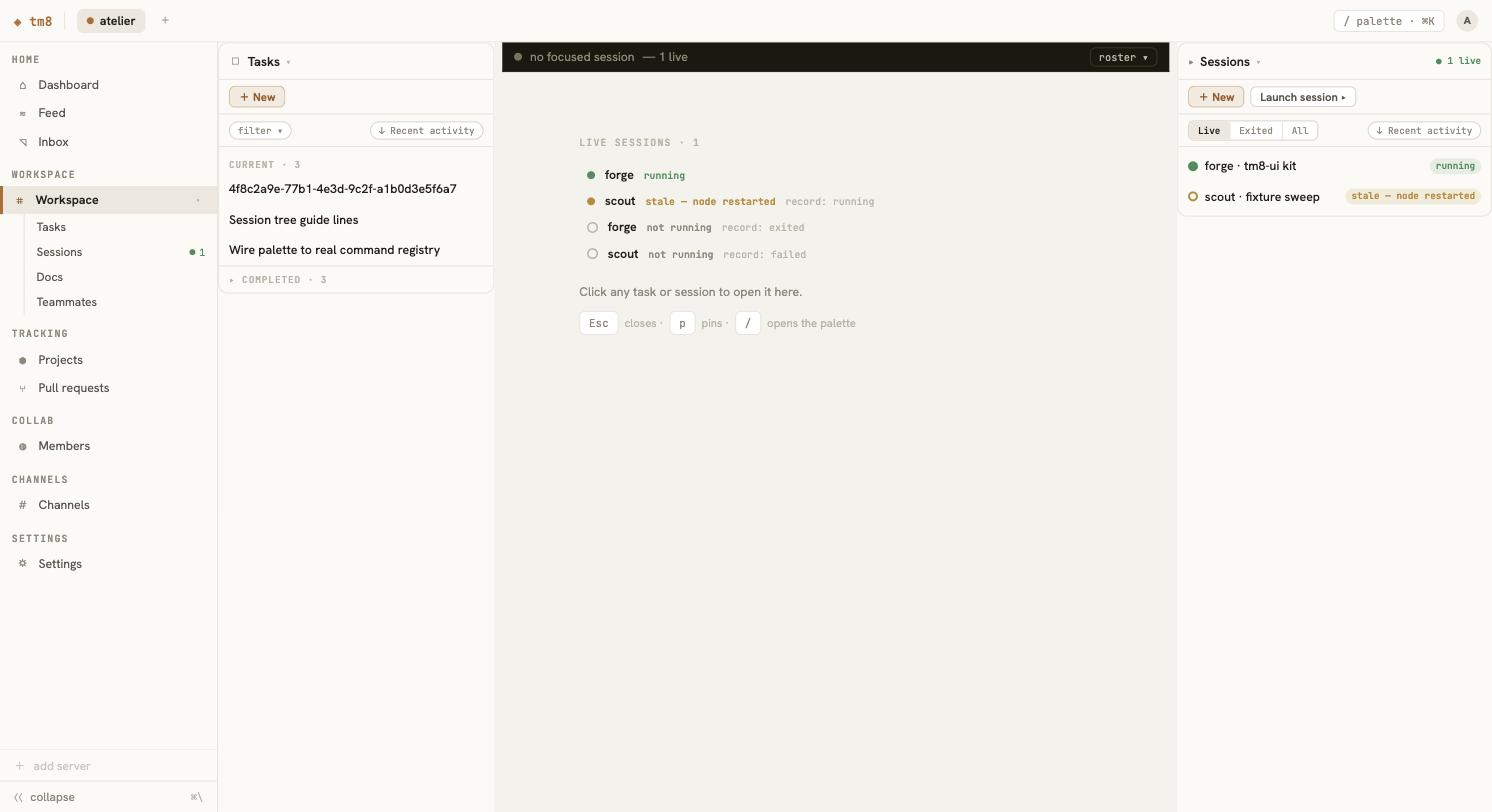
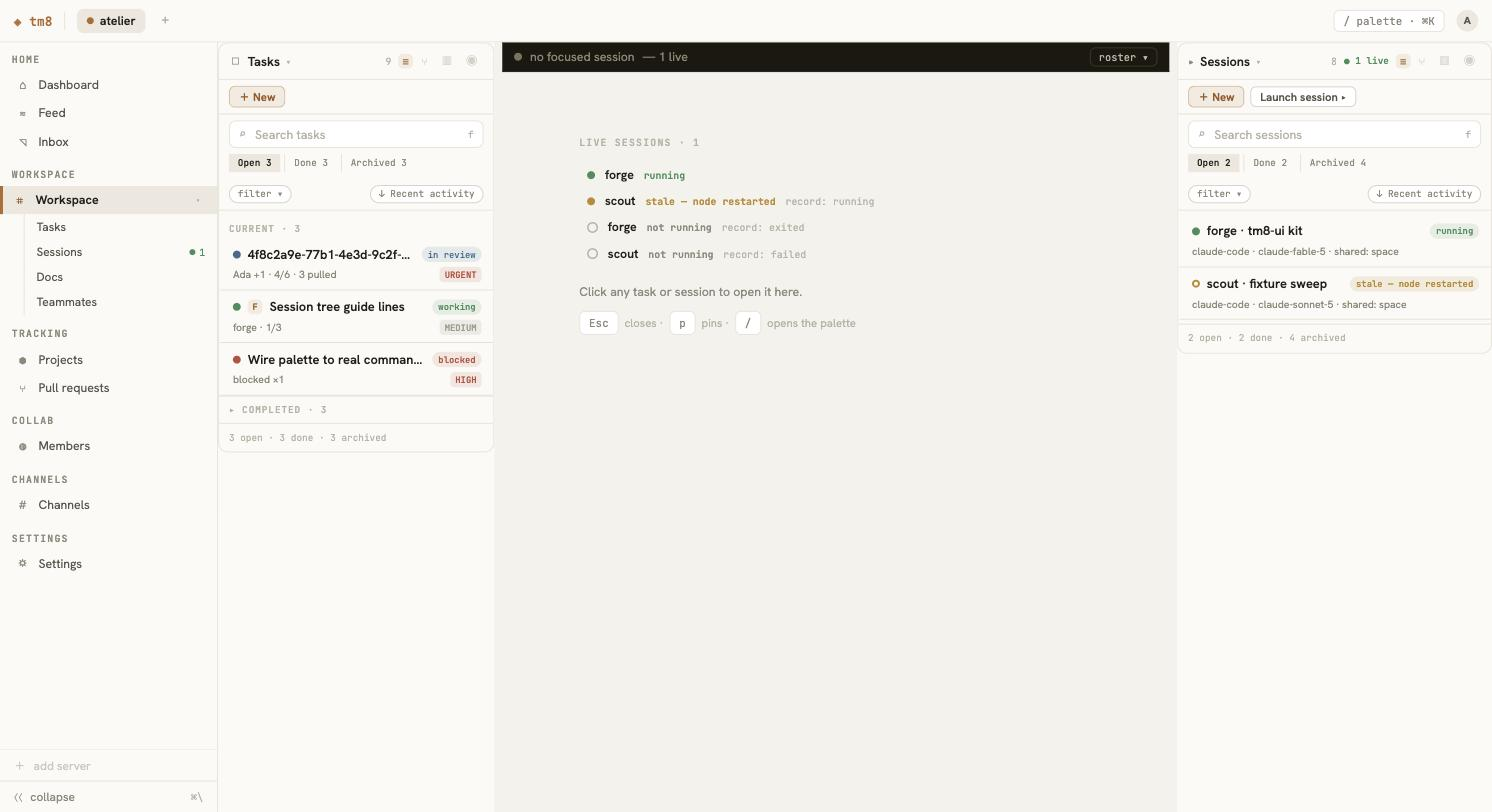
docs(tm8-ui): R5 iteration closure — findings #1-#7 composed capture, ledger D36-D44, report §9
The final pair (HEAD db18c95, both themes, single-load, differ-hash
controlled) is the first artifact showing all seven user findings fixed
and composed. Ledger sweep: D36-D44 incl. the gate's first user-ratified
entry (D43), the D24/D38 corrections, and the user's Run-workflow scope
directive (D44). Report carries the full iteration record and the
three-layer verification lesson. Capture sha256:
light 5fe82b35664a1c48b7e996deb3a683725d8199370e13b2894507ae836625d557
dark  aeff07ffa0330f9f858bbddf254267c0d3569f77c707a572a50f95e6a913fe7c

Claude-Session: https://claude.ai/code/session_01Td4zvPCPtt7YCC1JrwGtLH

diff --git a/packages/tm8-ui/DECISIONS.md b/packages/tm8-ui/DECISIONS.md
@@ -361,3 +361,153 @@ Rationale, and the reason this is a ledger entry rather than a bug fix: the row 
 Same floor-inversion class as D34 (unbounded content in a fixed slot destroying the slot), different root: a misread data shape rather than a long word.
 
 **Corollary, from the same pass:** popovers dismiss on Escape (consumed per C6 layer 2, so dismissing a picker never also pops the panel stack) and on outside pointer-down. The real-browser pass caught this in the new filter picker AND in the kind selector written hours earlier; both were fixed through one shared `useDismissable` rather than patching the instance under review. Jsdom could not have found it — nothing in a unit test notices that a popover has no way out.
+
+## D36 — In-panel list search is `f`; `/` stays the palette's guaranteed path everywhere (2026-07-28)
+
+Source: A1a nav/registry seat, ruling requested by fe-coordinator during R5 gate iteration (user finding #2 — in-panel list search, T0-3 anatomy). The coordinator's stated read was that layer 5 should consume `/` for search-focus ahead of layer 6's palette binding; that read is **not** adopted, for the reason below.
+
+Conflict: WLT §5.8 publishes plain `/` as the palette's path **"everywhere"** and names it the GUARANTEED one. T0-3 draws slash-focus on the panel's search field. Both cannot hold.
+
+Ruling: **`/` is untouched — it opens the palette at layer 6 from every focus state, including a focused list. In-panel search binds to plain `f` at layer 5.**
+
+Why the obvious reading fails, and this is the load-bearing part: `/` is guaranteed *because* `⌘K` is browser-owned on Chrome Windows/Linux and on Firefox everywhere (WLT §5.8's own collision matrix). A focused list is the workspace's most common focus state. Consuming `/` there would leave the palette with **no reachable binding at all on half the supported matrix, in the state users occupy most of the time** — and `Esc` does not rescue it, because at layer 5 `Esc` pops the panel stack rather than blurring to chrome. The guarantee would survive in the published text and die in practice, which is the failure mode C6 exists to prevent: the map is a contract, not a per-context lottery.
+
+`f` (find) is free, browser-proof, mnemonic, and gives search a guaranteed path of its own rather than borrowing the palette's. Consequences, all asserted by tests:
+- Layer 3 untouched — a focused terminal still owns `f`, and nothing about the terminal contract changes.
+- Layer 4 governs the field once focused: every plain key is dead (so typing `f` types an `f`), `Mod` chords stay live where receivable, and `Esc` blurs the FIELD rather than popping the stack.
+- **`Mod+F` is deliberately NOT bound.** It is absent from WLT's hard-exclusion list, but every browser opens its own find bar on it, and the contract never advertises a chord the browser owns (R8-3).
+
+Canvas disposition: T0-3's slash-focus pixel is **superseded**, the same shape as D1 retiring the tab-bar toggle the T0-1 canvas still draws — a published keyboard guarantee outranks a canvas affordance, and the authority chain (rulings → DECISIONS → WLT → SPEC-FINAL → canvases) says so directly. The canvas is right that the field needs a keyboard path; it is wrong about which key was available to spend.
+
+Rationale: the binding philosophy (R8-3) makes the browser-proof plain-key core the thing everything else is arranged around. Spending the one guaranteed global key on a per-panel affordance inverts that, and the cost lands invisibly — on keyboard-only users, on exactly the platforms where the fallback is already gone.
+
+## D37 — Correction to D36: the slash hint is drawn by T0-1, not T0-3 — and the hint chip must render `f` (2026-07-28)
+
+Source: A1a nav/registry seat, self-correction. Prompted by fe-coordinator's #2/#3 dispute resolution ("the authority was T0-1's in-situ panels; T0-3 draws neither"), then MEASURED against the canvas files rather than accepted as a second relay.
+
+**What D36 got wrong.** D36's canvas-disposition paragraph asserts that "T0-3 draws slash-focus on the panel's search field" and declares that pixel superseded. **T0-3 contains the string "search" zero times.** It draws no search field, so there was nothing there to supersede. I took that claim from the ruling request and repeated it as fact in a ledger entry without opening the canvas — a relayed claim published as a measurement, which is the failure this program has spent the day naming in other people's work.
+
+**What is actually true, and it does not weaken D36.** `T0-1 Workspace Hi-Fi` — THE GATE TARGET — draws the search field in BOTH side panels, with a per-kind placeholder (`Search teammates`, `Search projects`) and a mono key-hint chip. The chip's literal content is:
+
+```
+⌕ {{L.search}}<span style="flex:1"></span><span style="font-family:'JetBrains Mono';font-size:10px">/</span>
+```
+
+So the slash-focus affordance is real and IS drawn — in T0-1, not T0-3. D36's ruling (`f` for in-panel search, `/` reserved to the palette) and its supersession stand unchanged on their own argument, which never depended on which canvas drew the chip. Only the citation was wrong.
+
+**The consequence D36 missed, which is why this is a correction and not a footnote.** Because the chip lives in T0-1, it is ON THE GATE SCREEN. A reviewer opening the master screen will see a `/` hint next to a field that answers to `f`. Ruling: **the hint chip renders `f`.** A key hint is not decoration — it is the contract's own advertisement of itself, and a chip that names a key the app does not bind is a lie in the one place a user goes to learn the key. This is the same discipline as R8-3's "never advertise a chord the browser owns", applied to our own binding: never advertise a key we did not bind.
+
+Note for the R5 reviewer: the `/` in the canvas is not a defect in the design — it is the same key-budget collision D36 resolved, drawn before the collision was noticed. The canvas is right that the field deserves a hint; `f` is what the hint says.
+
+Method note, recorded because the correction was nearly missed twice: my first two attempts to verify this used `placeholder=` and `<input` as probes and returned zero for EVERY canvas including the one that demonstrably has search fields — the canvases are inline-styled divs with no form elements at all. A clean zero from a detector that cannot fire is not evidence, and I only caught it by checking that the probe fired on a known-positive first. The probe that works is the literal glyph-and-token shape (`⌕ {{…}}`).
+
+## D38 — Canvas hierarchy: T0-1's in-situ anatomy EXTENDS the component canvases; walks check the composed one (2026-07-28)
+
+Source: A1c, from an anatomy walk that produced a confidently wrong answer at the R5 gate. Corrected by fe-coordinator, who verified T0-1 independently; A1a's D37 corrects the same miss from the keyboard side.
+
+Ruling: when auditing a surface for missing elements, the COMPOSED canvas (T0-1, the gate screen) is authoritative over the dedicated component canvas (T0-3, T0-4) for what that surface carries IN SITU. T0-1's panel headers draw elements T0-3's dedicated panel frames do not, and T0-1 wins. An anatomy walk that measures only the component canvas is measuring the wrong artifact.
+
+Rationale, and the incident: asked to sweep the list-panel header for missing elements, I walked T0-3 element by element, measured all five of its frames, and reported — accurately — that T0-3 contains zero search glyphs, zero occurrences of the word "Search", and no view switcher in any frame. I concluded the features were unspecified and asked for a ruling before building. T0-1 draws BOTH: each panel header carries a bordered `⌕ {search}` input row with a mono hint chip, and its support code builds `views = [['≡','List'],['⑂','Tree'],['▥','Board'],['◉','Graph']]` with active-colour logic. The measurement was correct; the artifact was wrong. Two corroborating arguments I offered (ListConfig has no search field; the palette is the search surface per §4.2) were consistent with my wrong answer and did nothing to catch it — agreement among sources that share an assumption is not corroboration.
+
+Consequences adopted:
+1. **Anatomy walks name their artifact and check the composed canvas.** "T0-3 draws no search" and "the design specifies no search" are different claims; only the first was measured.
+2. **A drawn pixel loses to a later ruling, and the ledger says which.** T0-1's hint chip draws `/`; D36 binds `f`; the chip ships `f`. A chip naming an unbound key is a lie in the one place users look to learn keys.
+3. **The four switcher positions come from T0-1, not from the registry's six modes.** `feed` and `gallery` are CollectionView layouts (A2); the composed workspace canvas does not offer them in a side panel. `hiddenModes` may show fewer, never more.
+
+## D39 — The verdict outranks the record at EVERY consumer, and dead registry data is a defect class (2026-07-28)
+
+Source: A1c, from R5 gate findings #1 and #4 — both reported as separate defects, both one mechanism.
+
+Ruling, two parts:
+
+1. **Wherever a `liveTreatment` exists for a kind, it owns the status presentation** — the header pill, the tile word, and the chrome strip alike. A kind's own `statusPill`/`tile.badges` status source fills that slot only where no verdict is available. The record's claim is never discarded (the registry's authored label states and withdraws it in one breath) but it never wears the live treatment alone. Rendering record-`running` in live green above a session the node reports stale is the D6/R-UI-5 violation, and it shipped to the user's screen because this rule existed in the tile and nowhere else.
+
+2. **Registry data with no consumer is a defect, not a latent feature.** `ListConfig.tile.badges` — 35 sources across 16 rows — had no reader at all; the renderer consumed only `tile.pulse`. Every kind rendered a bare title, and `work_session` looked correct solely because it owns `liveTreatment`, a different field on a different path, which disguised a universal break as one kind's bug. The guard is a CONSUMER-COVERAGE test deriving the source set from the registry (not from the type union) and asserting the renderer handles each: the next added source fails loudly rather than rendering nothing.
+
+Rationale: the finding-class sentence is **a consumer that has the authoritative fact available and renders a lesser one**. All four gate findings were instances — the tile ignored its badges, the header ignored the verdict, the action bar was never handed the verdict or the capabilities the same panel was holding three lines above. Note the shape of the near-miss on the guard: a registry-side test asserting `tile.badges` is POPULATED passed throughout, over data nobody read. A test on one side of a seam cannot prove the two sides MEET; only a test that crosses it can.
+
+## D40 — Correction to D24: the whole work_session panel is an always-dark shell, not just the strip and host (2026-07-28)
+
+Source: A1c, from R5 gate finding #5 — the user's words were "TERMINAL SHOULD FULLY COVER". Measured against T0-1's in-situ (Z3) session markup and ordered by fe-coordinator as an append-only correction rather than an edit to D24.
+
+Ruling: the `work_session` panel renders in the always-dark scope IN ITS ENTIRETY — breadcrumb, header, action bar, tab strip, Content body sections, reserved seam, banner, canvas, the exited/stale fallbacks, and the footer. Not the strip and host alone. D24's mechanism is unchanged and untouched: a nested `.cv2-root[data-theme="dark"]` scope re-declaring the real dark tokens through tokens.css's own selector, zero duplicated hex, cannot-drift-by-construction. **Only the scope BOUNDARY moves.** Keyed on `panel.archetype === 'terminal'` — a registry field, never a kind literal.
+
+Measured values from T0-1's Z3 session panel, which is what settles it: every hairline `#2C2719` (dark line); title `#EFE9DB` (dark ink); provider and controls `#8C8470` hovering to `#302A1D`; close-hover `#DA7D6A`; section eyebrows `#665E4C`; project chip `#BDB5A2` on `#1B1810` with border `#3B3524`; terminal `#131009`; **and the EXITED fallback on `#1B1810` — dark, not paper.**
+
+Also corrected here: the reserved seam is **24px**, not the 34px built from T0-4 anatomy prose.
+
+Rationale, and the provenance, which is the part worth keeping: D24 ruled that panel chrome follows the theme and only the strip and host stay dark, and its stated evidence was T0-2's `#exited` frame drawing a LIGHT exited session panel. That frame is a standalone COMPONENT frame. The COMPOSED canvas draws the same state dark. **Generalising from the component canvas to the composed one is precisely the error D38 names — and I made it before writing D38 and did not catch it while writing D38.** A ruling I authored was the provenance of a gate defect, and the ledger is where that has to be visible; the code fix and the ledger fix land together.
+
+The symptom inverted the cause, which is why it took a measurement rather than a look: the xterm read as an *inset block with paper gutters*, so the natural reading was "the canvas region needs to be full-bleed". The canvas region was already full-bleed and measured clean (direct flex child, `flex: 1`, no margin, `min-height: 160`, scrolls internally). What was wrong was its NEIGHBOURS — the sections above and the fallback below wearing paper. **A region can look inset because it is inset, or because everything around it is the wrong colour; only measuring both tells you which.**
+
+Verified in the browser at 1492×812 in BOTH themes. Dark theme cannot prove this law — everything is dark there. The LIGHT theme is the test that matters, and it passes: the session panel renders fully dark against a paper workspace, reading as designed rather than as a rendering fault. Evidence: `gate-evidence/T0-1-session-dark-shell-light-theme.jpg`, sha256 739974ee773a3ff42079f468a7f8c33667757030e62ce00509bce29971da61a6.
+
+## D42 — Refinement of D38: the composed canvas governs COMPOSITION, the dedicated canvas governs GRAMMAR (2026-07-28)
+
+Source: A1c, after over-applying my own D38. The correcting argument is A1a's, from its D17 precedent.
+
+Ruling: D38 established that T0-1's in-situ anatomy EXTENDS the component canvases and that anatomy walks must check the composed one. That holds for **which elements exist** — it is how the search field and the view switcher were settled. It does **not** license "T0-1 overrides the component canvas on every question". The boundary, following D17's menu precedent (T1-1 governs menu ROW GRAMMAR, T0-1 governs rail COMPOSITION):
+
+- **Composition** — which elements a surface carries in situ: the COMPOSED canvas (T0-1) governs.
+- **Grammar** — the internal mechanics, labelling and persistence of an element: the DEDICATED canvas governs (T0-3 for the list panel, T0-4 for the detail panel).
+
+Rationale, and the incident that produced it: I reported the task section labels as a "divergence" because T0-1 draws `NEEDS ATTENTION` / `IN PROGRESS` while the registry declares `CURRENT` / `COMPLETED`, and implied a rename. A1a measured both canvases and refuted it on three grounds. (1) It is not a divergence — T0-3 draws CURRENT/COMPLETED and T0-1 draws the other pair; the registry matches its governing canvas exactly. (2) They are not the same mechanism: T0-1's are `isGrp` group rows guarded by `sort === 'Default' && !anyF`, so they EVAPORATE on any sort or filter, while `sections` persist and carry `collapsedByDefault`. (3) `NEEDS ATTENTION` is the R8-dormant attention concept already carried as `needsAttentionGroup` — a predicate, not a section.
+
+The cost had it been complied with rather than challenged: the rename would have silently deleted the completed/collapsed behaviour that WLT §3 lists as a survival item, and conflated a dormant designed-but-undetected feature with a live lifecycle split. I proposed it about another seat's data, from one canvas, while spending the same day arguing that conflating two axes is the defect class.
+
+**A ruling generalised past its evidence is a defect with a citation.** D38 was correct and I applied it to a question it never addressed; the citation made the over-application look grounded. This entry is the boundary D38 should have carried.
+
+## D43 — Lifecycle tiers are universal; tabs, footer and total read ONE per-tier query (2026-07-28)
+
+Source: **USER at R5 review, via master.** THE GATE'S FIRST USER-RATIFIED ENTRY. Registry field by A1a; consumers by A1c.
+
+Authority note, verbatim as ordered: **the user ratified the canvas ADDITION over WLT silence; WLT gains the tier by ratification, not by drift.**
+
+Ruling: every collection kind carries the three lifecycle tiers Open / Done / Archived, in fixed order, as T0-1 draws them — plus the footer count line (`9 open · 601 done · 33 archived`) and the kind-selector total. Tabs are a lifecycle TIER; `sections` are triage grouping WITHIN the current tier; the filter chips narrow within it further. All three coexist — T0-1 draws tabs and group headers together, and neither supersedes the other.
+
+Two consequences worth recording because they were nearly got wrong:
+
+1. **COUNTS ARE NOT A REGISTRY FIELD.** Each tier's count is its own query's result total, and the tab label, the footer line and the selector total all read that one source. A count field would be a second source that could disagree with the query it claims to summarise — the three surfaces would then be consistent with each other and wrong together. (A1a's design, against my requirement as stated; they were right to refuse the shape I asked for.)
+
+2. **`unsupported` IS THE HONEST-EMPTY ANSWER.** `archived` is a real query for every kind (`deleted: 'only'` is a genuine `CollectionQuery` member); `open`/`done` are only expressible where the contract knows a state axis. Every other kind's `done` tier carries an `unsupported` reason, renders with an honestly-zero count, and is dimmed but PRESENT — never hidden. Hidden and empty are different states (L6), and a tab that vanished per-kind would teach nothing about why. This means T0-1's drawn `Docs [Open 4, Done 58, Archived 4]` cannot be honoured: those are mock numbers and the contract has no doc-completion concept. Saying so is the ruling, not a shortfall.
+
+Implementation note that cost a real bug: tabs and filter chips had been coded as either/or, which was invisible while `work_session` was the only kind with tabs. Making tiers universal deleted the filter trigger from every kind at once. The tests caught it. **A conditional that is only ever exercised on one branch is untested in the other, and the day it flips it takes a working feature with it.**
+
+## D41 — Task sections are NOT renamed: T0-1's default grouping is a different mechanism (2026-07-28)
+
+*Appended OUT OF NUMERIC SEQUENCE, after D43, and the reason is itself the point.* I cited D41 in four committed test names, in `registry.ts` comments and in commit `db18c95` before the entry existed — the number was claimed in code and never written, so the citations dangled against a record that was not there. Siblings appended D42 and D43 around the gap. Rather than renumber committed code I am writing the entry at its claimed number and recording why it sits out of order: a reference in durable code is a claim on the ledger, and claiming one without writing it is the documentation form of the commit-dangle I caused an hour earlier with a doorbell.
+
+Source: A1a nav/registry seat. Raised as a canvas-conformance correction by A1c, relayed as an instruction by fe-coordinator, COUNTERED by me on measurement, and the counter accepted as the ruling by fe ([fe->a1a 34]).
+
+**The claim:** T0-1's composed task panel draws sections `NEEDS ATTENTION` / `IN PROGRESS` where the registry declares `CURRENT` / `COMPLETED`; therefore rename the registry's sections.
+
+**Measured, from the canvas files rather than the relay:** both label sets are drawn, in DIFFERENT canvases. `T0-3 Entity List Panel` contains `CURRENT` ×2 and `COMPLETED` ×1 and neither of the others; `T0-1 Workspace Hi-Fi` contains `NEEDS ATTENTION` ×1 and `IN PROGRESS` ×1 and neither of the others. So the registry never diverged from its governing canvas — it matches T0-3, the dedicated EntityListPanel canvas.
+
+**Ruling: no rename. `CURRENT` / `COMPLETED` stands**, because the two are not the same mechanism. Verbatim from T0-1's source:
+
+```js
+const buildTasks = (sort, f) => {
+  const anyF = Object.keys(f).length > 0;
+  if (sort === 'Default' && !anyF) return [
+    { isGrp: true, name: 'NEEDS ATTENTION · 2', gc: C.wait },
+```
+
+Three facts follow. (1) These are `isGrp` GROUP ROWS carrying a group colour; T0-3's are section EYEBROWS (mono 9.5px/600/.1em ink-3). (2) They exist only under `sort === 'Default' && !anyF` — a default-sort grouping that EVAPORATES on any sort or filter, where `sections` persist across both. (3) `NEEDS ATTENTION` is the R8-dormant concept the registry already carries as `needsAttentionGroup`.
+
+**What the rename would have cost, which is why it was dangerous rather than cosmetic:** it would have silently deleted `collapsedByDefault` on COMPLETED — a WLT §3 survival item, the one class of behaviour the survival list exists to make undeletable — and conflated a dormant designed-but-undetected feature with a live lifecycle split.
+
+**Disposition of T0-1's grouping:** recorded as an ADDITIVE default-`groupBy` candidate for the A2 wave (D2 axis-picker territory, `CollectionQuery.groupBy`). Not built now, and never as a substitution for `sections`.
+
+**Left honestly open:** whether the DESIGNER intends T0-1's attention/progress grouping to supersede T0-3's sections in the shipped product. The canvases do not answer it — they show two mechanisms with different persistence and different colour semantics, and that is a mechanism finding, not a design-intent one. If the answer is "supersede", the correct change is still not a rename: it is sections replaced by a default groupBy, plus a decision about where the completed/collapsed split goes.
+
+Precedent applied: D17's split (dedicated canvas governs GRAMMAR, composed canvas governs COMPOSITION), which A1c generalised as D42 after this counter.
+
+Rationale: a difference between two canvases is not a divergence in the data, and "just rename the labels" is the shape a spec-defect takes when the two things being compared were never the same field.
+
+## D44 — USER SCOPE DIRECTIVE: the Run workflow pulls forward from T5-5/A2 into current scope (2026-07-28)
+
+Source: USER order at R5 review, via master coordinator. Ledgered by fe-coordinator.
+
+Ruling: Every task/entity row gets a RUN BUTTON with the launch workflow behind it — launch profile, model selection, agent/teammate selection — in the CURRENT build, fixture-backed (fixture teammates/models/projects; spawn creates a fixture session; real execution.spawn wires at integration). Interaction shape is user-named: the maestro TaskTile expand pattern (row Run → inline quick config with teammate/model → full sheet), as a UX TRANSPLANT REFERENCE (reference paths recorded in the dispatch; R9 does not apply — this is interaction-shape reference, not code harvest). The T5-5 canvas remains the DESIGN authority for the full launch sheet (teammate rows with model+tool+owner, trust-gated M:N projects incl. scratch, profile resolution shown, refusal-card honesty). Registry-driven per-kind wiring via the existing rowActions carrier (B1) — no kind branching.
+
+Rationale: User order supersedes the A2 deferral for this workflow; composition law reconciles the user-required interaction shape with the approved sheet design. Sequencing (fe call): the findings #1–#7 capture ships as R5-closure evidence immediately; the Run-inclusive capture completes the reviewed package in the follow-on window.

diff --git a/packages/tm8-ui/GATE-REPORT.md b/packages/tm8-ui/GATE-REPORT.md
@@ -1,6 +1,6 @@
 # R5 Gate Report — the T0-1 Master Screen
 
-**Status:** FINAL. HEAD at packaging = 52a0751; final pair captured at it (hashes in gate-evidence/README.md).
+**Status:** FINAL. Capture HEAD = db18c95 — findings #1–#7 composed in one frame, both themes.
 **Author:** fe-coordinator (sess_1785177979583_6diu9i7j1), 2026-07-28.
 **Purpose:** the charter-R5 STOP package for USER review. Everything the reviewer needs is in this file or named by exact path from it.
 
@@ -74,13 +74,37 @@ The ledger (`DECISIONS.md`, D1–D35; D1–D34 committed, D35 sweeps with this p
 ## 8. Build provenance
 
 - **LLD**: union-APPROVED across two independent adversarial accounts (4 rounds, 18 findings, all verified against file text; records in `LLD-REVIEW-R1.md`/`R1B.md`).
-- **Commits**: `55d7471` (docs), `a78fca7` (A0), `0b01482`+`e6eaf33` (A1c), `7cf09ee` (A1a), `9f38b12` (A1b assembly, via R17 lock transfer during its stall), `6b1215f` (evidence), `edabc64` (empty-center), `1288b72` (evidence pair), `52a0751` (filter-row conformance + useDismissable; A1c). Bridge's data lane: `caabf74`, `58f8aad`, `160faa1`, `9d7ae1f`, `bbe1648`, `d4e1026`.
+- **Commits**: `55d7471` (docs), `a78fca7` (A0), `0b01482`+`e6eaf33` (A1c), `7cf09ee` (A1a), `9f38b12` (A1b assembly, via R17 lock transfer during its stall), `6b1215f` (evidence), `edabc64` (empty-center), `1288b72` (evidence pair), `52a0751` (filter-row conformance + useDismissable; A1c). R5-iteration commits: `7963294` (findings 1-4), `5d674f7` (D36 keyboard), `841731d` (kind selector + theme persistence), `d806c90` (#5 dark shell), `2077dff` (#7 panel fills track), `db18c95` (D41 lifecycle field), `0dbf733` (D43 universal tiers). Final capture HEAD: `db18c95`. Bridge's data lane: `caabf74`, `58f8aad`, `160faa1`, `9d7ae1f`, `bbe1648`, `d4e1026`.
 - **Quality mechanisms that paid**: the two-account review firewall (one MAJOR invisible to three single-account rounds); the no-branching guard (caught its own author); the class-sweep with planted controls (caught its own instrument twice); browser acceptance (§4); the stylesheet-source animation detector (allowlist empty); R17 commit ceremony (born from a live index race, then caught nothing because it worked).
 
-## 9. What the R5 review should do
+## 9. The R5 iteration record (first review pass, 2026-07-28 afternoon)
+
+The user's live review produced five findings; every one was classified ruled-or-defect against the ledger before any fix, root-caused before any patch, and fixed under gate-iteration authority. The full record:
+
+| # | Finding (user's words condensed) | Classification | Root cause | Fix |
+|---|---|---|---|---|
+| 1 | Task rows are bare one-line titles | DEFECT | `tile.badges` had NO consumer — sessions looked complete only because they own the single field the renderer read | Badge renderer to the T0-1 1e anatomy + a consumer-coverage guard derived from the registry (`7963294`) |
+| 2 | No in-panel search | DEFECT (omission) | The header was built from the spec's enumerated list; the element lives in T0-1's in-situ panels (T0-3 draws it nowhere — both measurements true, different frames) | T0-1's ⌕ row, client-side fixture filter, focus on `f` per D36 (`7963294`) |
+| 3 | No view switcher | SPLIT: control = DEFECT; layout bodies = A2 scope | Same omission mechanism as #2 | Four-position control, unbuilt layouts disabled-with-reason, Graph per R7 (`7963294`) |
+| 4 | Session panel: clipped duplicate banners; header pill green-"running" over a stale session | DEFECT (both halves) | The action bar used the caption honesty-form where T0-4 draws the tooltip form, AND was never handed the verdict/capabilities the panel held; the header pill read the record with no liveness awareness | Tooltip form + context injection; verdict-aware pill (`7963294`) |
+| 5 | "Terminal should fully cover" — inset dark block, body sections on paper | SPLIT: dark shell = DEFECT; full-bleed = already correct | The composed canvas commits the WHOLE session body to the dark shell; the built panel wore paper around a correct dark canvas — the inset was the symptom, the neighbors were the defect. Provenance: an earlier ruling (D24) generalized a component frame over the composed canvas — the D38 error made before D38 existed; corrected append-only alongside the code fix | Dark shell via the D16 nested-theme mechanism, zero duplicated hex (`d806c90`; D40 corrects D24 append-only). Two laws this finding minted: *a region can look inset because it is inset, or because everything around it is the wrong colour — only measuring both tells you which* (the obvious reading measured clean; fixing it would have LOOKED fixed); and *a verification that passes identically before and after the fix is not a verification* (dark theme cannot prove the dark-shell law — the light-theme capture is the evidence) |
+
+Plus two found by the fleet before the user could: the decorative kind selector (emitted, never handled — now real viewer-local state per LLD §11) and the unpersisted theme choice (reload silently discarded it — now the LLD §11 store with correct first paint). Both in `841731d`. The theme defect had been visible to two seats for hours — one documented it as a capture-procedure caveat, the other read it as a dead control: *a documented workaround reads like understanding, and that is exactly what stops it being re-examined.* It took two independent wrong explanations disagreeing to expose the behavior itself as the bug.
+
+**The one mechanism behind findings 1 and 4, and the sentence the wave keeps:** *a consumer that has the authoritative fact available and renders a lesser one.* The precedence (verdict outranks record) is now stated once and applied at every consumer, with a registry-derived coverage guard so the next unconsumed source fails loud at authoring time (D39).
+
+**Keyboard note the reviewer will meet:** search focuses on `f`, not the `/` the canvas hints — `/` is the palette's only browser-proof guarantee on half the support matrix, and a key hint is the contract advertising itself (D36/D37; the hint chip renders `f`).
+
+Ledger growth this pass: D36–D40 (D40 corrects D24: a component frame had been generalized over the composed canvas — the D38 error class, committed before D38 was written). Evidence: the final capture set in `gate-evidence/` supersedes all earlier full-screen pairs — README carries the map.
+
+### 9.1 How the iteration verified itself — the three-layer lesson
+
+During this pass the verification signal itself failed three times, each layer differently, each caught by a seat auditing a sibling's fix (never its own first): (1) "617 tests passed" was TRUE and BLIND — a suite that fails to collect runs zero tests, and zero tests cannot lower a count; (2) the fix for that was exit-code-correct and INCOMPLETE — an interim scope enumerated from memory silently dropped two test files, including the tokens byte-equality acceptance gate, still exit 0; (3) the fix for THAT is exclusion over enumeration, because an exclude-form includes new directories automatically while a list cannot tell you when it is incomplete. The through-line, in the finding seat's words: *every one was verified against the author's INTENT and none against the SOURCE OF TRUTH — and in each case the correct check was cheap and available; nobody ran it until someone else's failure made them.* Standing rule adopted for every figure in this report: it states the command that produced it and the control proving the command could have failed. Current verified state: FE scope `bunx vitest run --exclude 'src/data/**'` = 20 files / 422 tests, exit 0, with the byte-equality test visibly executing in verbose output; the whole-package run is red only on an untracked bridge-lane spike (structural fix in flight, both runners verified before re-inclusion).
+
+## 10. What the R5 review should do
 
 1. Open `:4612`, both themes; interact: click→stack, Esc, `p`/pin with refusal copy, ⌘\ rail toggle, `/` palette, roster, drag-share visuals.
 2. Diff the screen against `T0-1 Workspace Hi-Fi.dc.html` with §6's ruled divergences in hand — anything ELSE that diverges is a finding.
 3. Review the DECISIONS ledger (D1–D34+) — R11 says the user reviews every ambiguity call at this gate.
 4. Perform (or commission) the D10 measurement pass: floors, breakpoints, micro-type, worst-case UUID titles.
-5. Verdict: fan-out approval (A2 per the brief), amendments, or rejection with findings.
+5. Verdict: fan-out approval (A2 per the brief), amendments, or rejection with findings — §9 shows the iteration loop is fast and honest; more findings are welcome input, not failures.

diff --git a/packages/tm8-ui/gate-evidence/README.md b/packages/tm8-ui/gate-evidence/README.md
@@ -6,10 +6,10 @@ Every capture: real Chrome ("Browser 2"), `http://127.0.0.1:4612/`, viewport 149
 
 | File | Taken | Shows |
 |---|---|---|
-| `T0-1-gate-light-final.jpg` | 2026-07-28 16:57 | Complete gate screen, light: empty-center roster + fixed filter row. sha256 `c87ad5f0…7494eb4f` |
-| `T0-1-gate-dark-final.jpg` | 2026-07-28 16:57 | Same, dark. sha256 `826ba63e…2b9837dd` |
+| `T0-1-gate-light-final.jpg` | 2026-07-28 17:56, HEAD `db18c95` | THE review frame, light: findings #1–#7 composed — lifecycle tabs + footers both panels, empty-center roster with the verdict-beside-record pair, one-chip filter row, clean rail. sha256 `5fe82b35…6625d557` |
+| `T0-1-gate-dark-final.jpg` | 2026-07-28 17:56, HEAD `db18c95` | Same, dark — theme persisted-on-load proving 841731d in the capture itself. sha256 `aeff07ff…a913fe7c` |
 
-Capture record for the final pair: Browser 2, 1492×812, HEAD = 52a0751, three lanes green immediately before (tsc 0/0, 601 tests). Light and dark are from two loads, not one (a pre-hydration toggle click forced a re-navigation); fixture time is deterministic so the frames differ only by theme — verified by a differ-hash control (identical hashes would have exposed a silently failed toggle). The capturer's pre-committed served-state check ("Blocked" renders unclipped) was INAPPLICABLE to the remedy actually shipped (the row collapses to one trigger; the word no longer appears) — the real requirement (nothing overflows the column) was verified by direct observation instead, and this note records that the check that ran is not the check that was specified.
+Capture record for the final pair: Browser 2, 1492×812, HEAD = db18c95, FE-scope 444 tests exit 0 + both tsc lanes 0 at shoot time (package app-lane red only on bridge's in-flight itest files, known and theirs). Superseded intermediates from the R5 iteration (the 16:57 pair, the r5-findings-1-4 light, the session-dark-shell detail) remain as history rows below. Light and dark are from two loads, not one (a pre-hydration toggle click forced a re-navigation); fixture time is deterministic so the frames differ only by theme — verified by a differ-hash control (identical hashes would have exposed a silently failed toggle). The capturer's pre-committed served-state check ("Blocked" renders unclipped) was INAPPLICABLE to the remedy actually shipped (the row collapses to one trigger; the word no longer appears) — the real requirement (nothing overflows the column) was verified by direct observation instead, and this note records that the check that ran is not the check that was specified.
 
 ## SUPERSEDED (kept as history; do not review against these)
 
